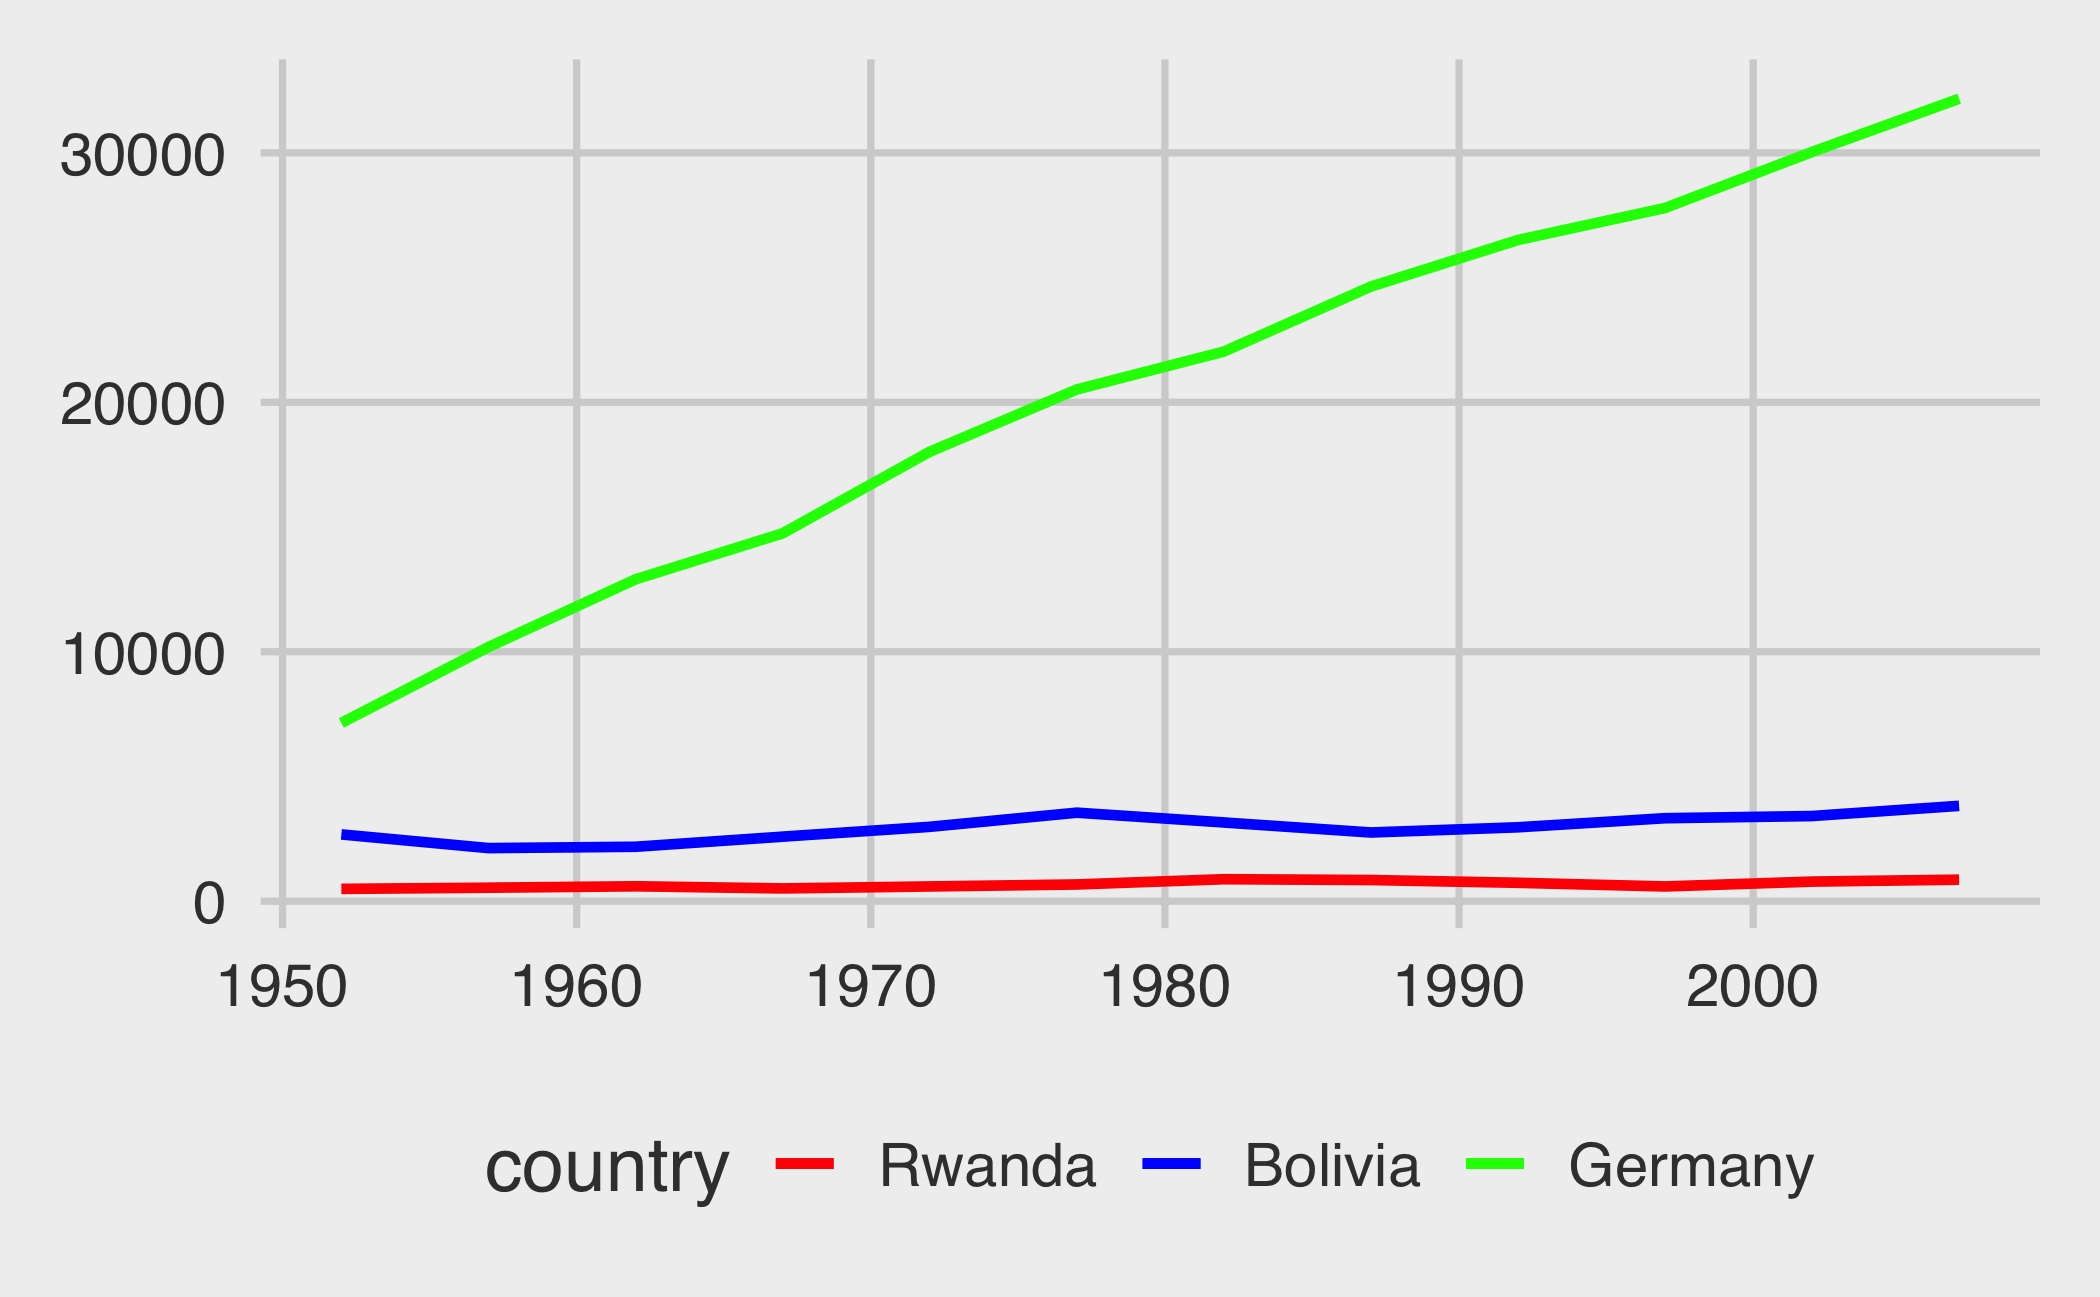
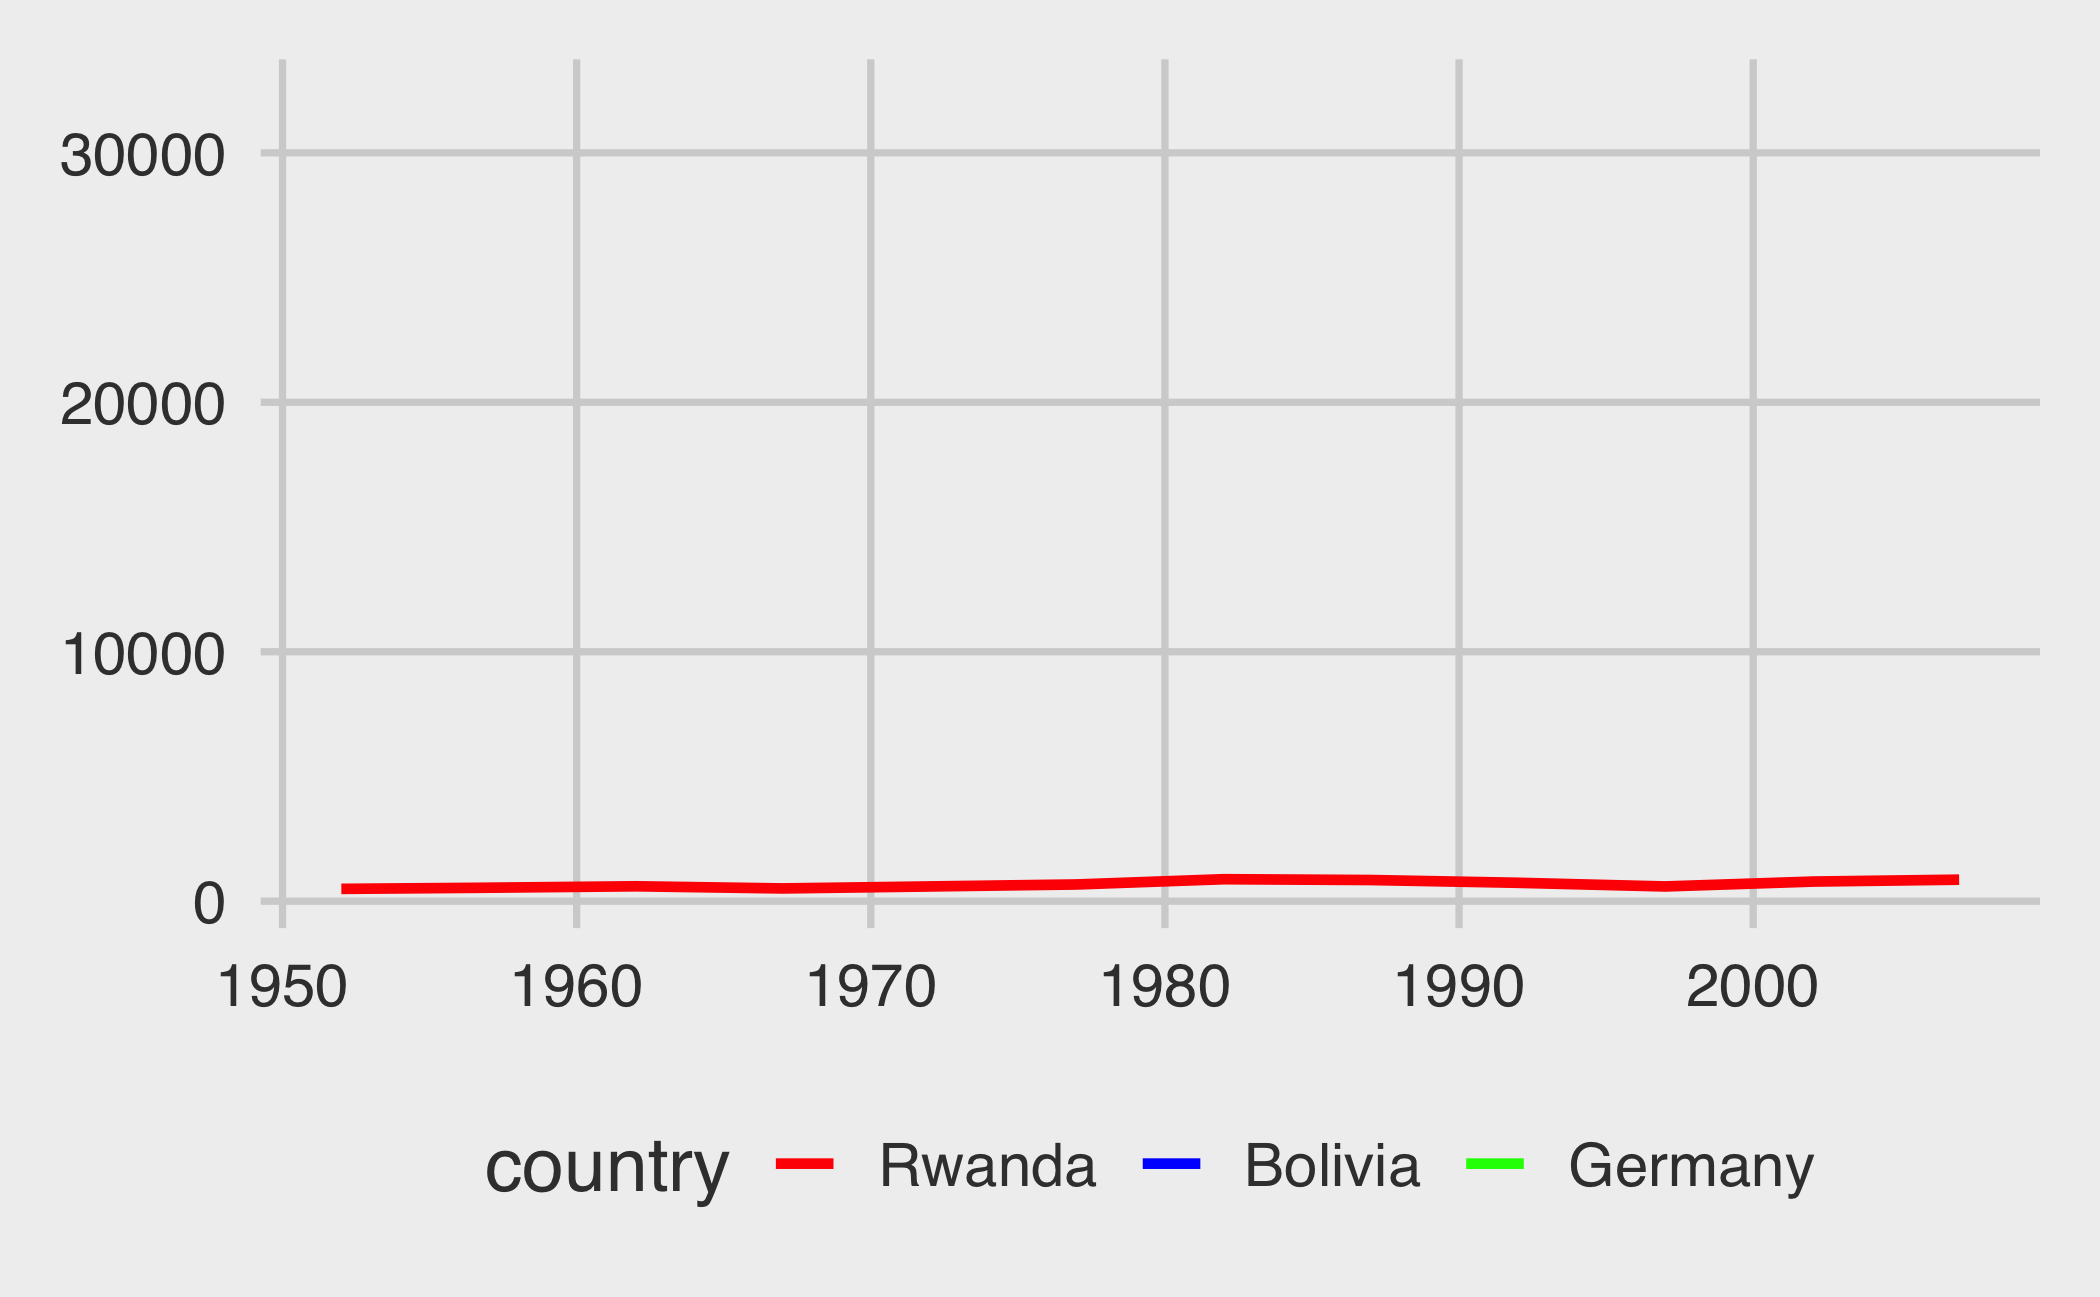
add paulgp tips. show more code for adding layers

diff --git a/incremental_slides.html b/incremental_slides.html
@@ -89,27 +89,45 @@ p = ggplot(minigap, aes(year, gdpPercap, colour = country)) +
   geom_blank() + 
   scale_colour_manual(values = c("red", "blue", "green")) + 
   NULL
-
-p + geom_line(data = filter(minigap, country == "Rwanda")) 
 ```
+
+- From here,  we can add each country's line layer by layer, starting from
+
+
+```r
+p + 
+  geom_line(data = filter(minigap, country == "Rwanda")) 
+```
+
+and ending with 
+
+
+```r
+# Final plot
+p + 
+  geom_line(data = filter(minigap, country == "Rwanda"), size = 1.2) + 
+  geom_line(data = filter(minigap, country == "Bolivia"), size = 1.2) + 
+  geom_line(data = filter(minigap, country == "Germany"), size = 1.2)
+```
+
 
 ---
 
 # Rwanda
 
-&lt;img src="incremental_slides_files/figure-html/unnamed-chunk-6-1.png" width="100%" style="display: block; margin: auto;" /&gt;
+&lt;img src="incremental_slides_files/figure-html/unnamed-chunk-8-1.png" width="100%" style="display: block; margin: auto;" /&gt;
 
 ---
 
 # Rwanda, Bolivia
 
-&lt;img src="incremental_slides_files/figure-html/unnamed-chunk-7-1.png" width="100%" style="display: block; margin: auto;" /&gt;
+&lt;img src="incremental_slides_files/figure-html/unnamed-chunk-9-1.png" width="100%" style="display: block; margin: auto;" /&gt;
 
 ---
 
 # Rwanda, Bolivia, and Germany
 
-&lt;img src="incremental_slides_files/figure-html/unnamed-chunk-8-1.png" width="100%" style="display: block; margin: auto;" /&gt;
+&lt;img src="incremental_slides_files/figure-html/unnamed-chunk-10-1.png" width="100%" style="display: block; margin: auto;" /&gt;
 
 ---
 
@@ -117,18 +135,20 @@ p + geom_line(data = filter(minigap, country == "Rwanda"))
 
 - Some people even suggest building the graph starting from the axes, without any data plotted i.e. start with
 
-&lt;img src="incremental_slides_files/figure-html/unnamed-chunk-9-1.png" width="60%" style="display: block; margin: auto;" /&gt;
+&lt;img src="incremental_slides_files/figure-html/unnamed-chunk-11-1.png" width="60%" style="display: block; margin: auto;" /&gt;
 
 - Unfortunately I don't know how to do this and still have a legend **(if you do, let me know!)**
 - Generally, I prefer to do without a legend and have labels directly on the graph. If you do that, then this issue doesn't matter
 
 ---
 
-# Sources
+# Sources + Resources
 
 - [Stack Overflow](https://stackoverflow.com/questions/22276761/how-to-add-a-legend-label-in-a-plot-when-there-is-no-data-points-with-that-labe)
 
 - [Better Presentations by Jon Schwabish](https://policyviz.com/better-presentations/)
+
+- [Paul Goldsmith-Pinkham's beamer tips](https://github.com/paulgp/beamer-tips)
     </textarea>
 <script src="https://remarkjs.com/downloads/remark-latest.min.js"></script>
 <script>var slideshow = remark.create({
